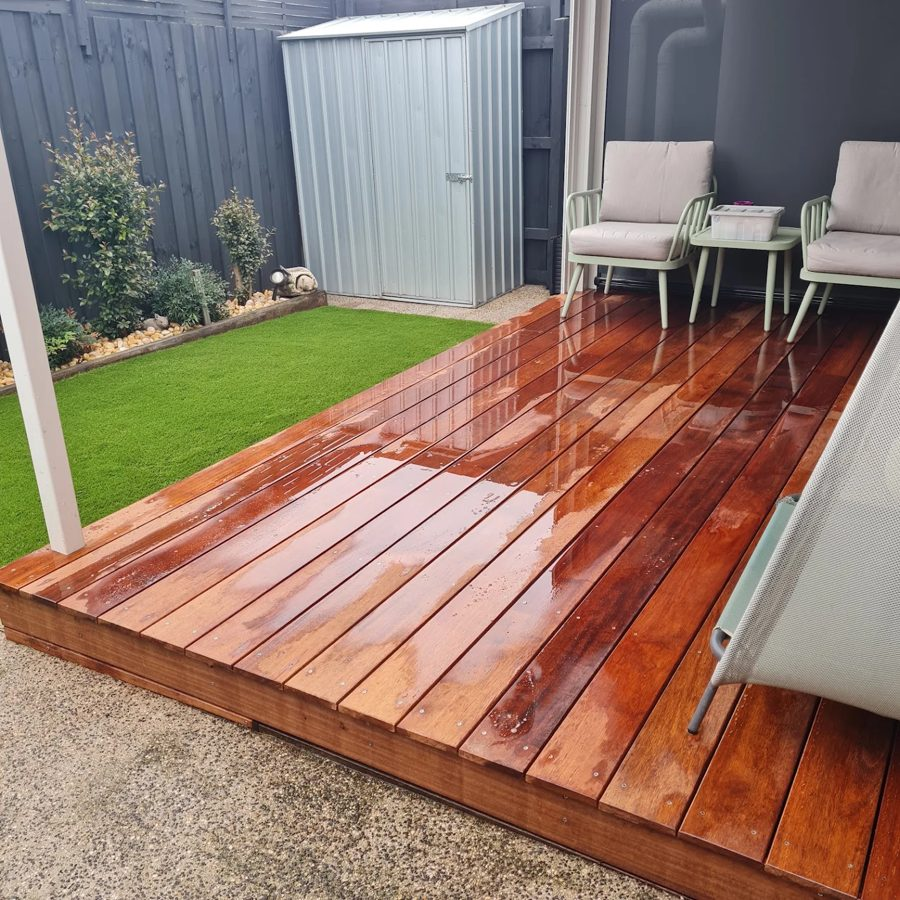
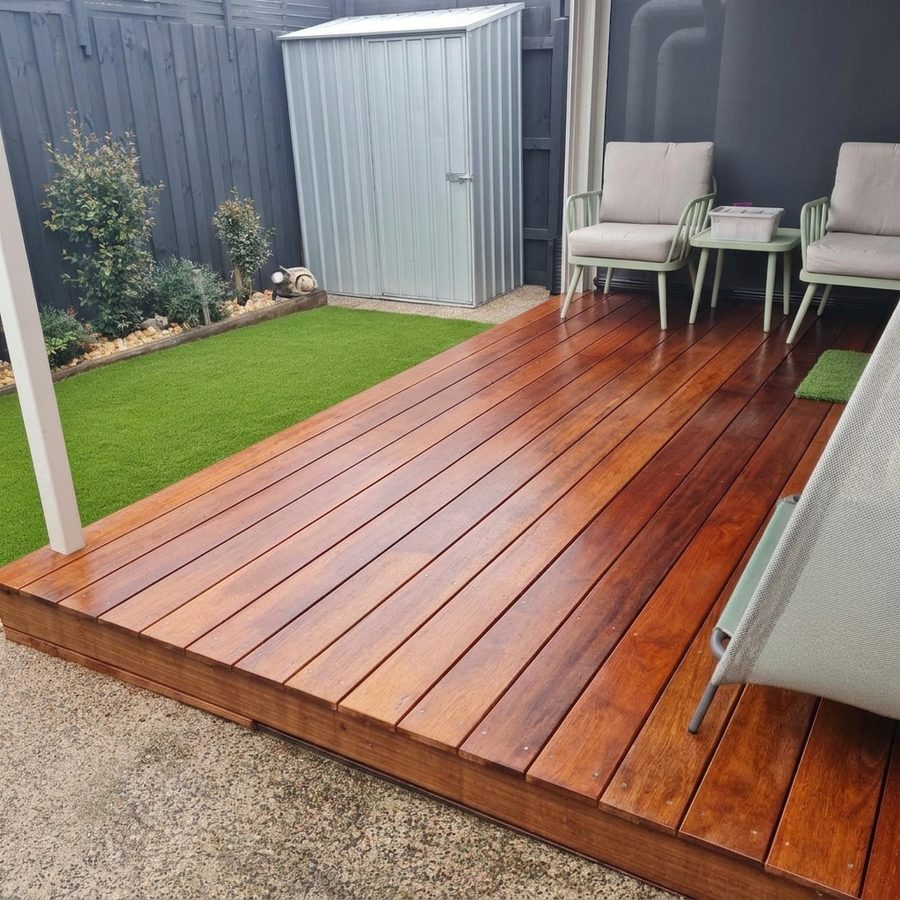
Update these files to include the new changes.

diff --git a/outdoor-construction.html b/outdoor-construction.html
@@ -154,6 +154,14 @@ textarea[name="message"]::placeholder, input[name="message"]::placeholder{ color
 a.btn[onclick*="openQuoteModal"]{ border:1.5px solid #E5252A !important; background:transparent !important; color:#E5252A !important; }
 .site-header a.btn[onclick*="openQuoteModal"], .band-dark a.btn[onclick*="openQuoteModal"], a.btn.on-dark[onclick*="openQuoteModal"], footer a.btn[onclick*="openQuoteModal"]{ color:#fff !important; }
 a.btn[onclick*="openQuoteModal"]:hover{ background:#E5252A !important; border-color:#E5252A !important; color:#fff !important; }
+.hero .choice-note{ display:none; }
+#reviewsFallback[hidden]{ display:none !important; }
+.rjw5{ display:grid; grid-template-columns:repeat(6,1fr); }
+.rjw5 .card{ grid-column:span 2; }
+.rjw5 .card:nth-child(4){ grid-column:2 / span 2; }
+.rjw5 .card:nth-child(5){ grid-column:4 / span 2; }
+@media(max-width:820px){ .rjw5{ grid-template-columns:1fr 1fr; } .rjw5 .card, .rjw5 .card:nth-child(4), .rjw5 .card:nth-child(5){ grid-column:auto; } .rjw5 .card:nth-child(5){ grid-column:1 / -1; max-width:calc(50% - 9px); justify-self:center; } }
+@media(max-width:520px){ .rjw5{ grid-template-columns:1fr; } .rjw5 .card:nth-child(5){ max-width:none; } }
 </style>
 </head>
 <body><noscript><iframe src="https://www.googletagmanager.com/ns.html?id=GTM-KQXG8LXC"height="0" width="0" style="display:none;visibility:hidden"></iframe></noscript>
@@ -286,10 +294,11 @@ setTimeout(function () {
       <span class="eyebrow">Real JT work</span>
       <h2>See what we've <span class="accent">actually done</span></h2>
     </div>
-    <div class="grid grid-4" style="gap:18px;">
-      <div class="card"><div class="ph ratio-square"><img src="img/deck painting & staining.png" alt="New timber decking by JT Handyman" style="width:100%;height:100%;object-fit:cover;display:block;" loading="lazy"></div><div class="gallery-caption"><strong>New timber decking</strong><span>Melbourne, VIC</span></div></div>
+    <div class="grid rjw5" style="gap:18px;">
+      <div class="card"><div class="ph ratio-square"><img src="img/home-tips-deck.jpg" alt="New timber decking by JT Handyman" style="width:100%;height:100%;object-fit:cover;display:block;" loading="lazy"></div><div class="gallery-caption"><strong>New timber decking</strong><span>Melbourne, VIC</span></div></div>
+      <div class="card"><div class="ph ratio-square"><img src="img/Bundoora_pergola_10244.jpg" alt="Steel pergola with clear roof sheeting by JT Handyman in Bundoora" style="width:100%;height:100%;object-fit:cover;display:block;" loading="lazy"></div><div class="gallery-caption"><strong>Steel pergola, clear roof</strong><span>Bundoora, VIC</span></div></div>
+      <div class="card"><div class="ph ratio-square"><img src="img/home-tips-pergola.jpg" alt="Timber pergola with shade cover by JT Handyman" style="width:100%;height:100%;object-fit:cover;display:block;" loading="lazy"></div><div class="gallery-caption"><strong>Timber pergola with shade cover</strong><span>Melbourne, VIC</span></div></div>
       <div class="card"><div class="ph ratio-square"><img src="img/Hampton_modern-blackandtimber-slat-fence.jpg" alt="Modern black and timber slat fence by JT Handyman in Hampton" style="width:100%;height:100%;object-fit:cover;display:block;" loading="lazy"></div><div class="gallery-caption"><strong>Modern black &amp; timber slat fence</strong><span>Hampton, VIC</span></div></div>
-      <div class="card"><div class="ph ratio-square"><img src="img/Caulfield_finished-slatted-steel-pergola-roof.jpg" alt="Finished slatted steel pergola roof by JT Handyman in Caulfield" style="width:100%;height:100%;object-fit:cover;display:block;" loading="lazy"></div><div class="gallery-caption"><strong>Slatted steel pergola roof</strong><span>Caulfield, VIC</span></div></div>
       <div class="card"><div class="ph ratio-square"><img src="img/jt-driveway-speed-hump.jpg" alt="Yellow and black speed hump installed on a concrete driveway by JT Handyman" style="width:100%;height:100%;object-fit:cover;display:block;" loading="lazy"></div><div class="gallery-caption"><strong>Driveway speed hump</strong><span>Melbourne, VIC</span></div></div>
     </div>
     <div class="text-center" style="margin-top:24px;">
@@ -446,8 +455,8 @@ setTimeout(function () {
 <!-- 13. FINAL CTA -->
 <section class="section band-dark">
   <div class="container cta-band">
-    <h2>Ready to get your outdoor space sorted?</h2>
-    <p>Tell us what you need built, repaired or replaced and get started today.</p>
+    <h2>Ready to get your outdoor space sorted before Christmas?</h2>
+    <p>Tell us what you need built, repaired or replaced, and we’ll outline the next step.</p>
     <div class="choice-row">
       <div class="choice">
         <a href="javascript:void(0)" onclick="openCallbackModal('final_cta');" class="btn btn-primary">Start My Job Brief</a>
